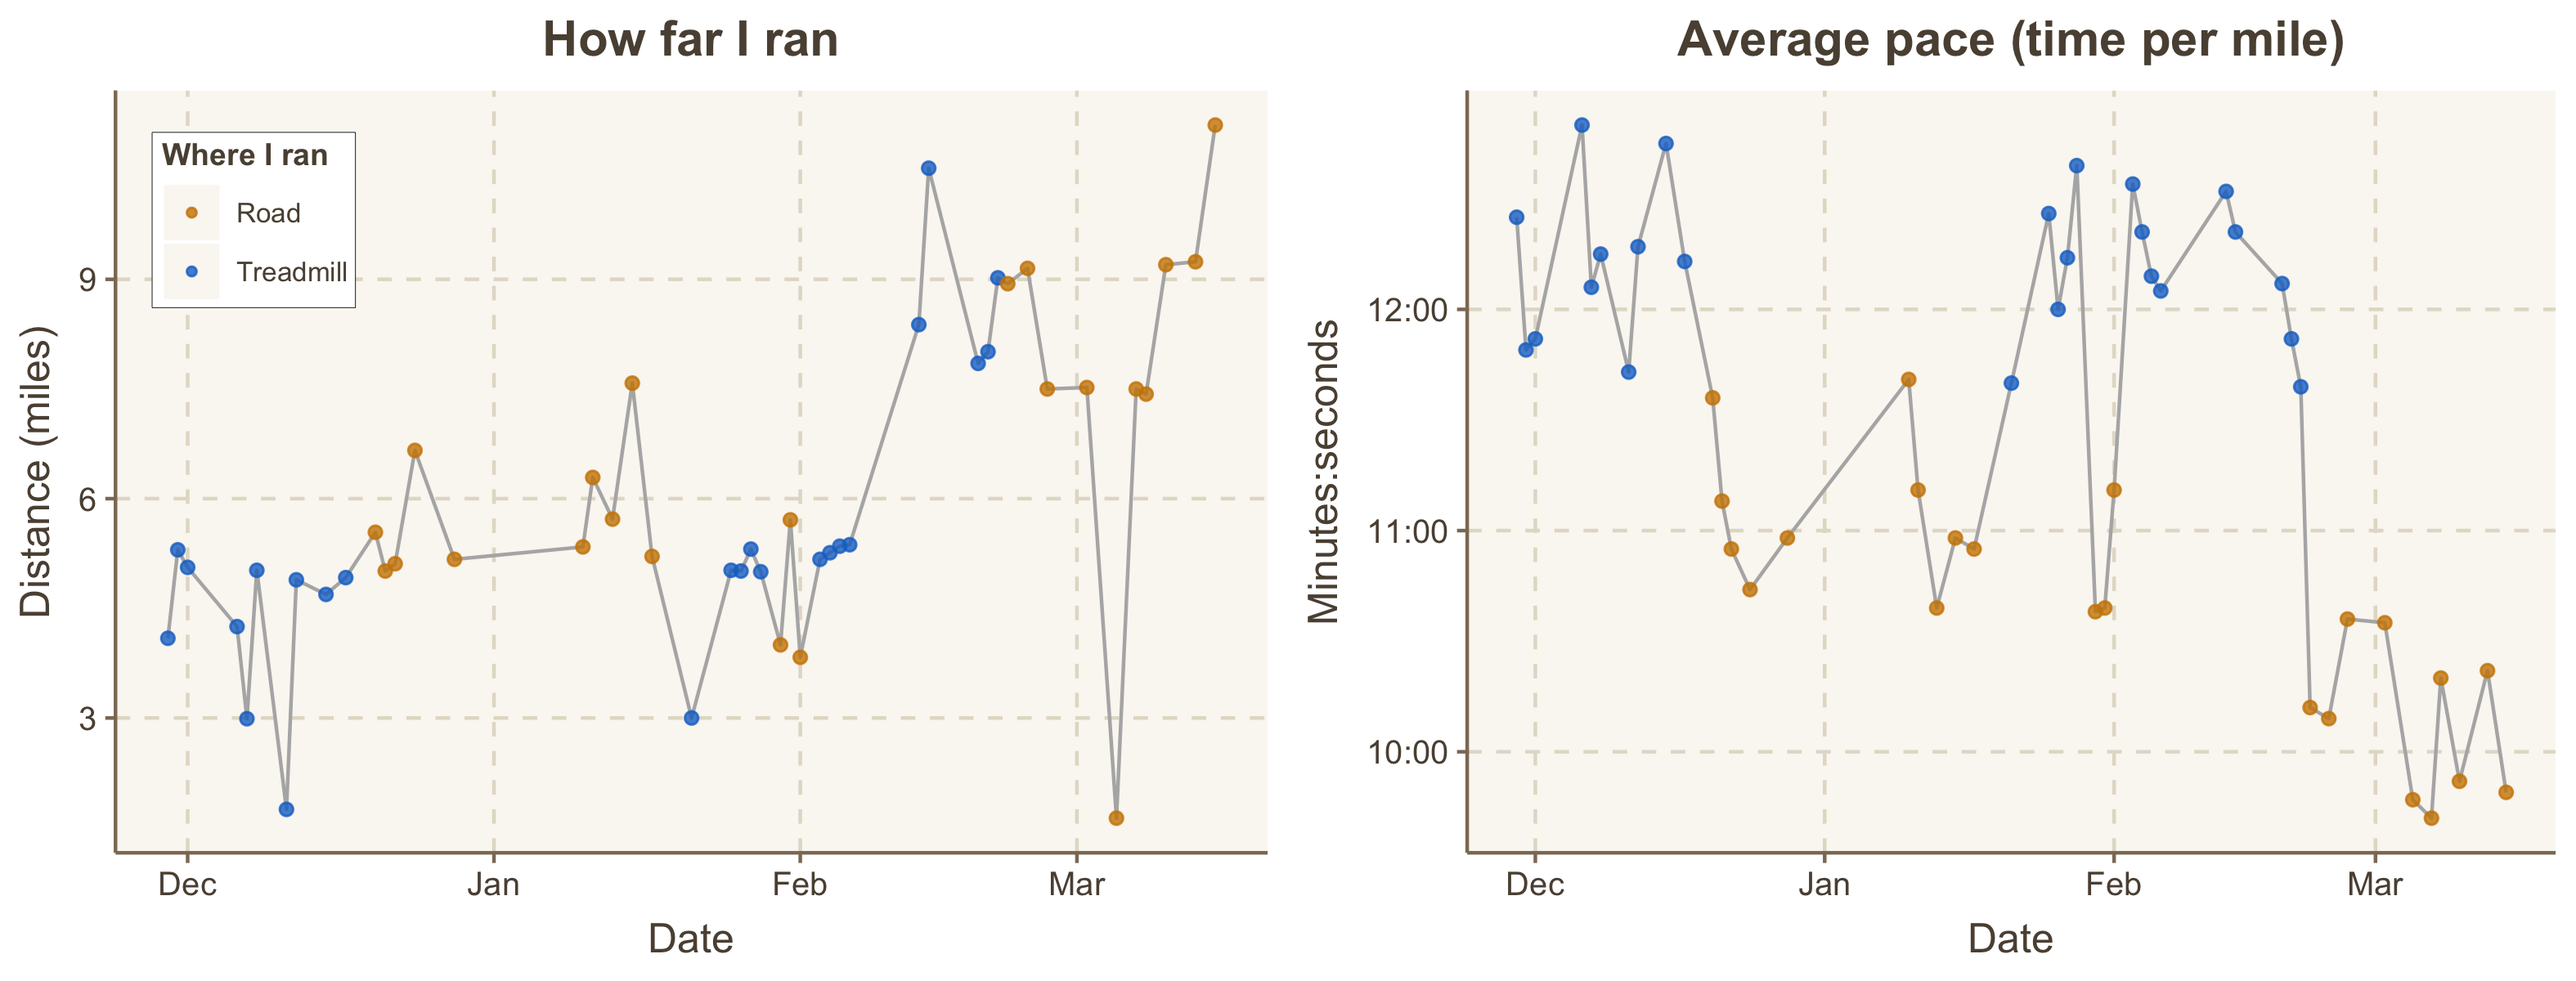
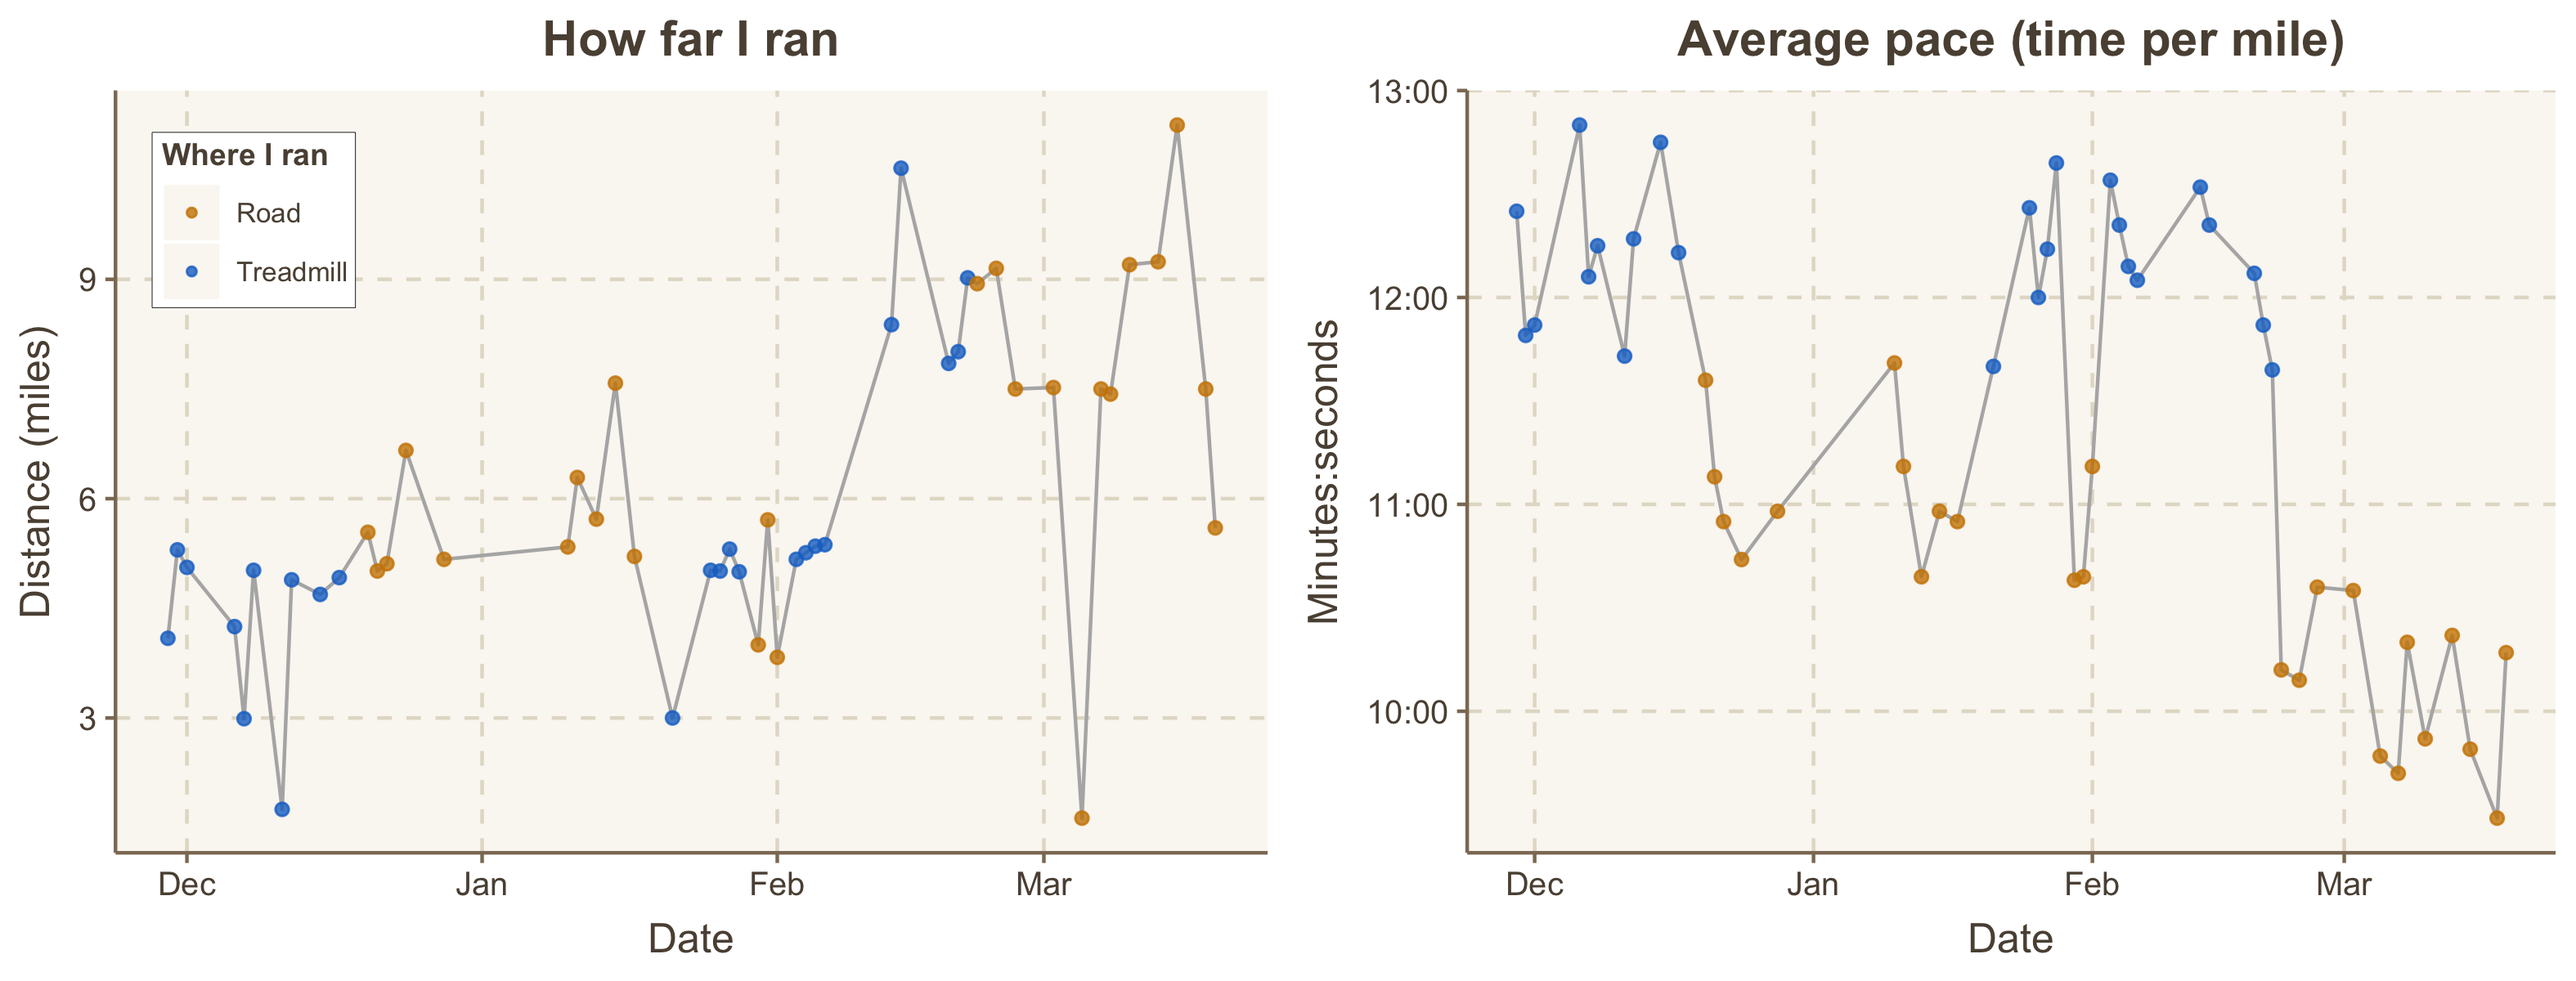
3/19/22

diff --git a/README.md b/README.md
@@ -25,7 +25,7 @@ ggarrange(p1, p2, nrow=1)
 sum(runningData$Miles)
 ```
 
-    ## [1] 281.62
+    ## [1] 294.72
 
 Average distance during the last 10 runs:
 
@@ -33,4 +33,4 @@ Average distance during the last 10 runs:
 mean(tail(runningData$Miles, 10))
 ```
 
-    ## [1] 7.922
+    ## [1] 7.423
